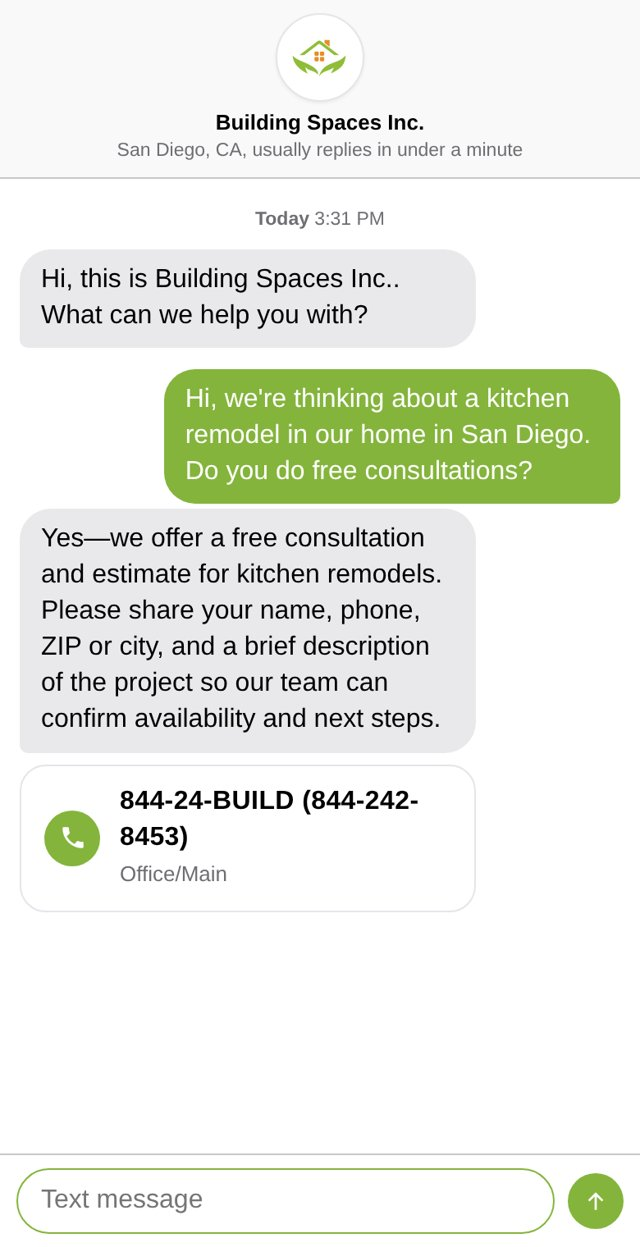
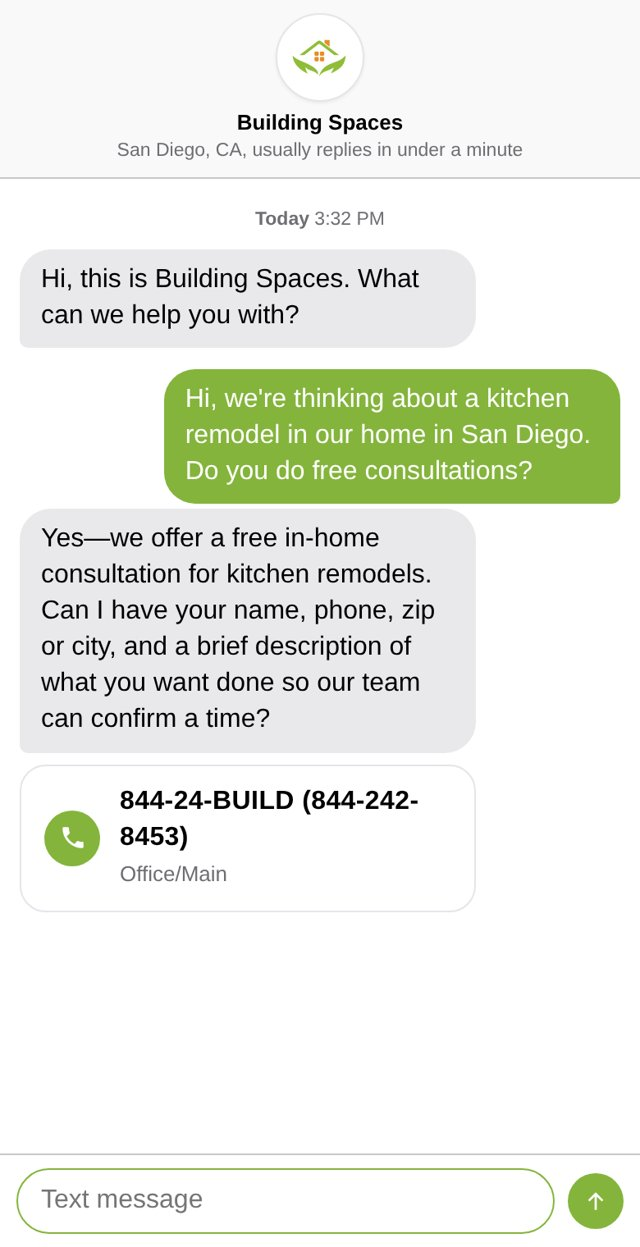
building-spaces-sd chat

Changed region(s): [[0.0625, 0.4266, 0.6875, 0.6095], [0.0625, 0.2133, 0.6562, 0.2743], [0.3438, 0.0914, 0.6562, 0.1219]]

diff --git a/building-spaces-sd/index.html b/building-spaces-sd/index.html
@@ -1,13 +1,13 @@
 <!doctype html><html lang="en"><head><meta charset="utf-8"><meta name="viewport" content="width=device-width,initial-scale=1">
-<meta name="robots" content="noindex,nofollow"><title>A website assistant for Building Spaces Inc.</title><style>body{margin:0;font-family:-apple-system,Segoe UI,Roboto,sans-serif;background:#f4f5f7;color:#1b2430}
+<meta name="robots" content="noindex,nofollow"><title>A website assistant for Building Spaces</title><style>body{margin:0;font-family:-apple-system,Segoe UI,Roboto,sans-serif;background:#f4f5f7;color:#1b2430}
 main{max-width:760px;margin:0 auto;padding:28px 18px 40px}h1{font-size:22px;line-height:1.3;margin:0 0 8px}
 p{line-height:1.55;color:#4a5566;margin:0 0 18px}.due{display:flex;gap:14px;justify-content:center;margin:0 0 22px}
 .due figure{margin:0;flex:1;max-width:340px}.due img,img.shot{width:100%;display:block;border-radius:18px;box-shadow:0 14px 40px rgba(15,25,45,.2)}
 img.shot{max-width:360px;margin:0 auto 22px}figcaption{text-align:center;font-weight:700;margin-top:8px;color:#4a5566}
 a.btn{display:block;max-width:420px;margin:0 auto;text-align:center;background:#1f66e0;color:#fff;text-decoration:none;font-weight:700;padding:15px;border-radius:14px;font-size:16px}
 small{display:block;text-align:center;color:#7a8596;margin-top:16px;font-size:12.5px}</style></head><body><main>
-<h1>A website assistant for Building Spaces Inc.</h1><p>It answers your website visitors instantly, day or night, using only what's on your website, and sends you their name, number and what they need.</p><img class="shot" src="screenshot.jpg" alt="Preview of the assistant on your website">
-<a class="btn" href="https://wpsani.store/demo/d/9047b0d5">Try it live</a>
+<h1>A website assistant for Building Spaces</h1><p>It answers your website visitors instantly, day or night, using only what's on your website, and sends you their name, number and what they need.</p><img class="shot" src="screenshot.jpg" alt="Preview of the assistant on your website">
+<a class="btn" href="https://wpsani.store/demo/d/a66e0de0">Try it live</a>
 <small>Private demo built by Federico Sanua, independent web developer, sanuafederico@gmail.com</small>
-<img src="https://wpsani.store/demo/p/9047b0d5.gif" width="1" height="1" alt="" style="position:absolute;left:-9999px">
+<img src="https://wpsani.store/demo/p/a66e0de0.gif" width="1" height="1" alt="" style="position:absolute;left:-9999px">
 </main></body></html>
